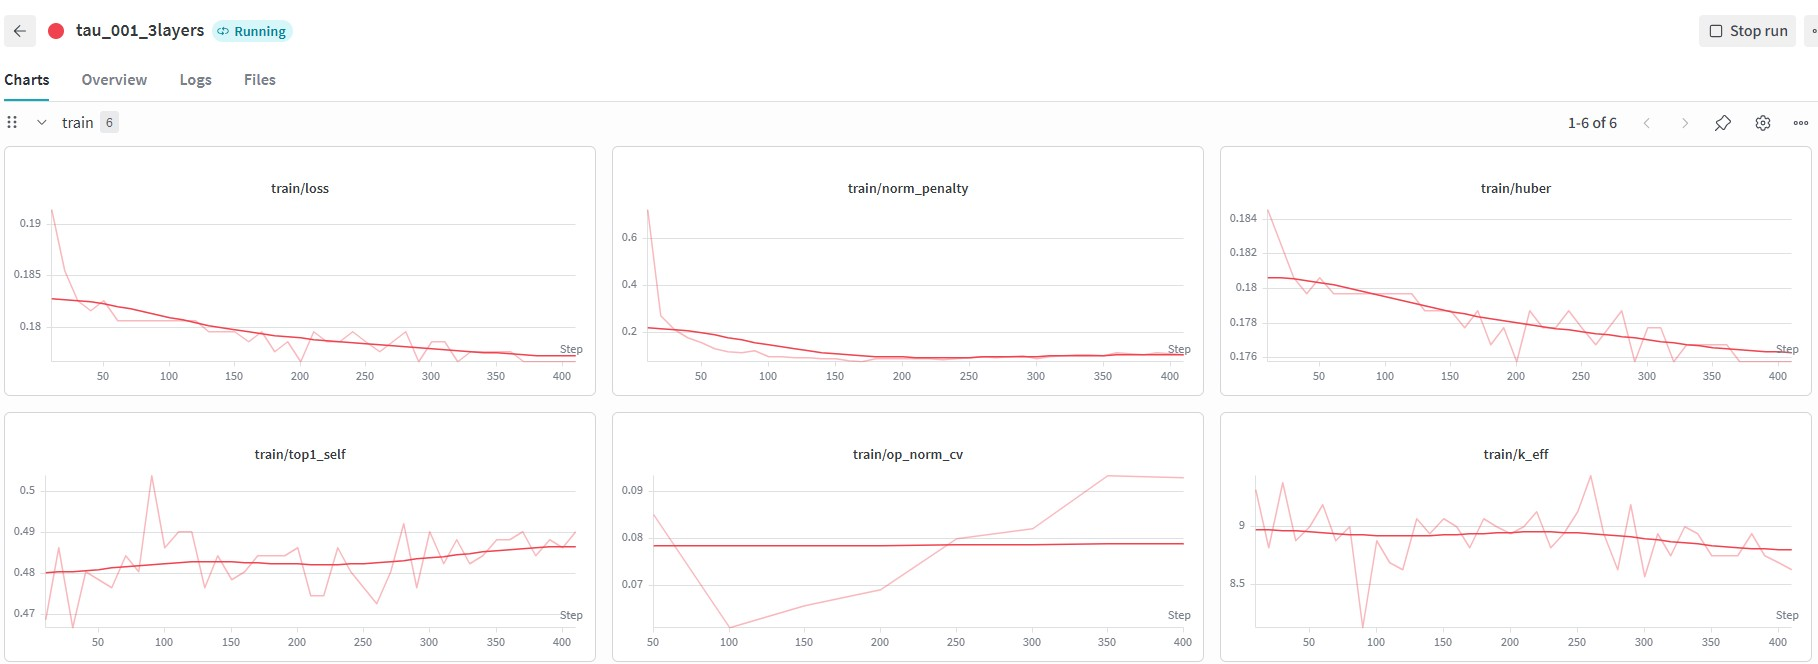
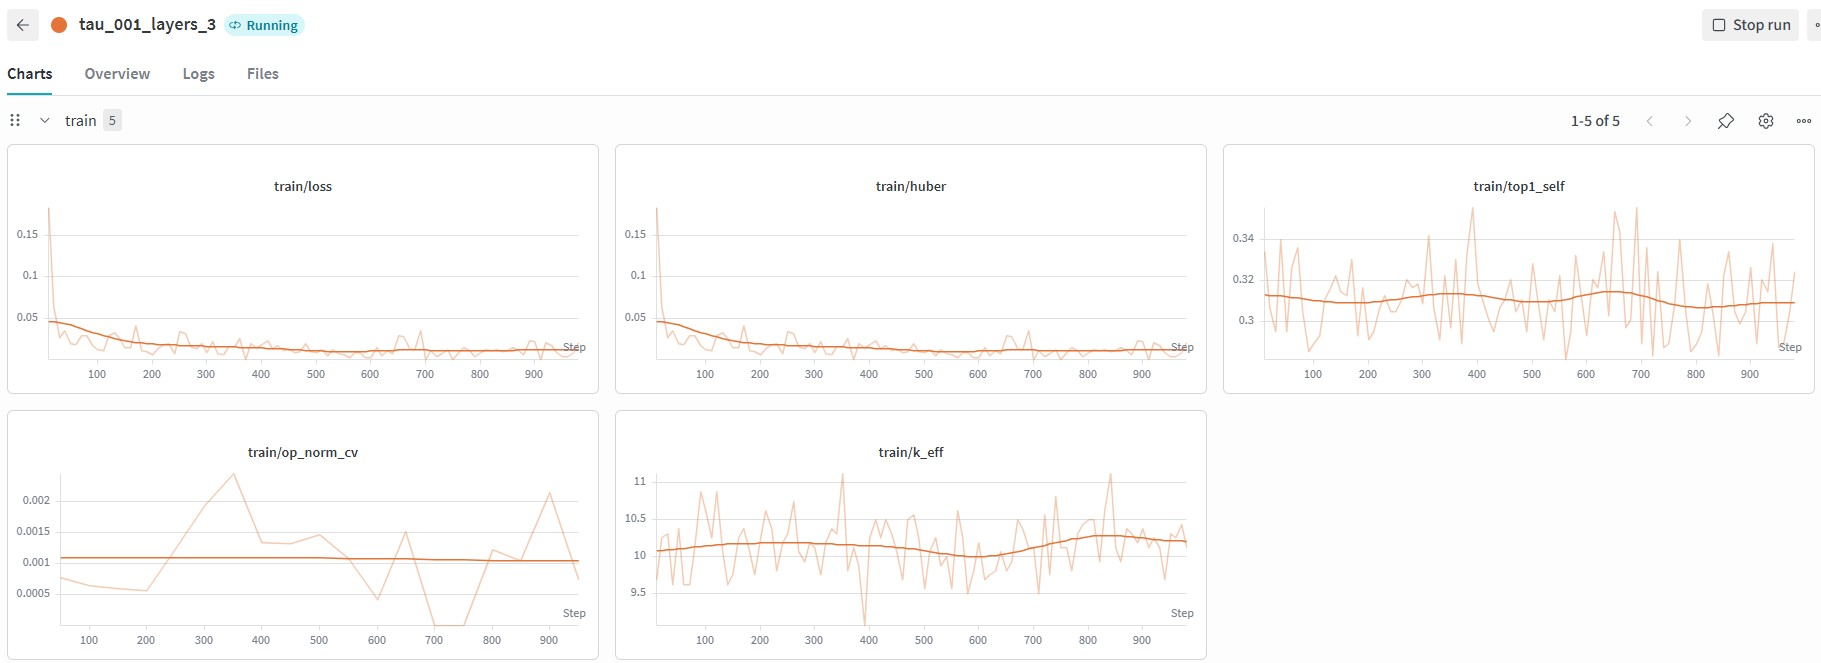
Add periodic saving every 1000 steps to train_phase3.py

diff --git a/experiments/phase 3/train_phase3.py b/experiments/phase 3/train_phase3.py
@@ -340,7 +340,11 @@ def train_tpu(args):
                 except ImportError:
                     pass
                 
-                pbar.set_postfix({
+            if rank == 0 and global_step % 1000 == 0:
+                print(f"Сохранение промежуточного чекпоинта (step {global_step})...")
+                xm.save(output_projector.state_dict(), f"OP_{args.run_name}_step{global_step}.pt")
+                
+            pbar.set_postfix({
                     "loss": f"{metrics['train/loss']:.4f}",
                     "k_eff": f"{k_eff:.1f}"
                 })
